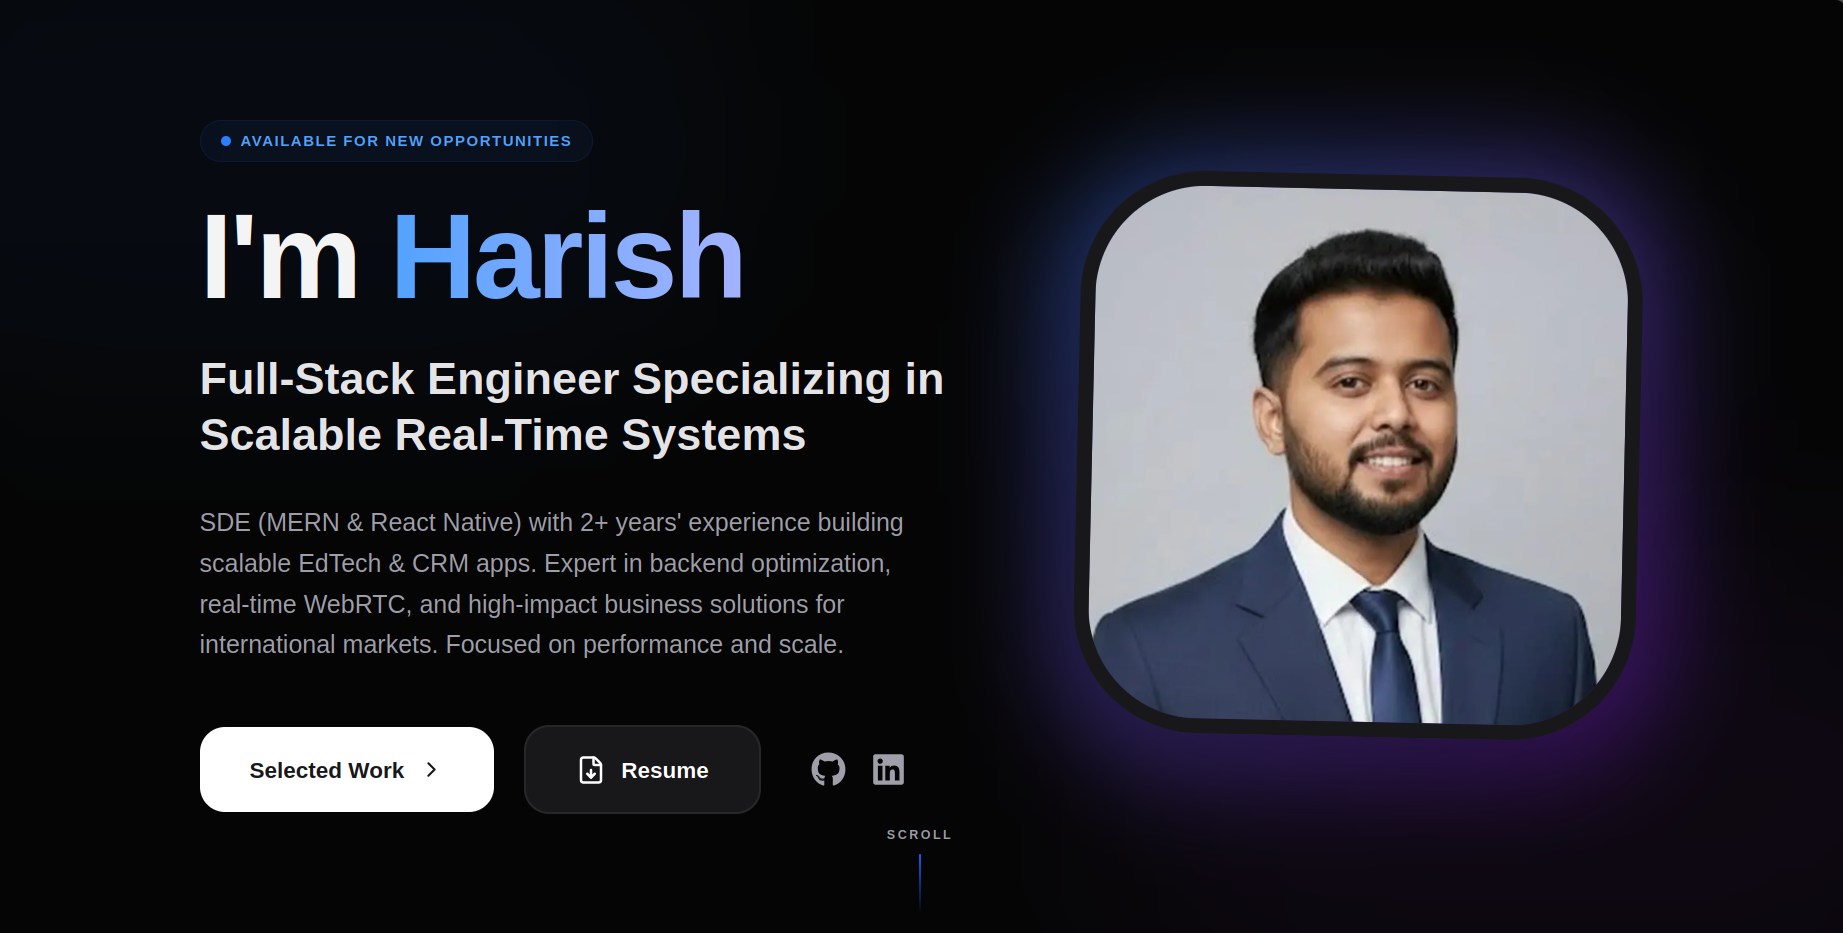
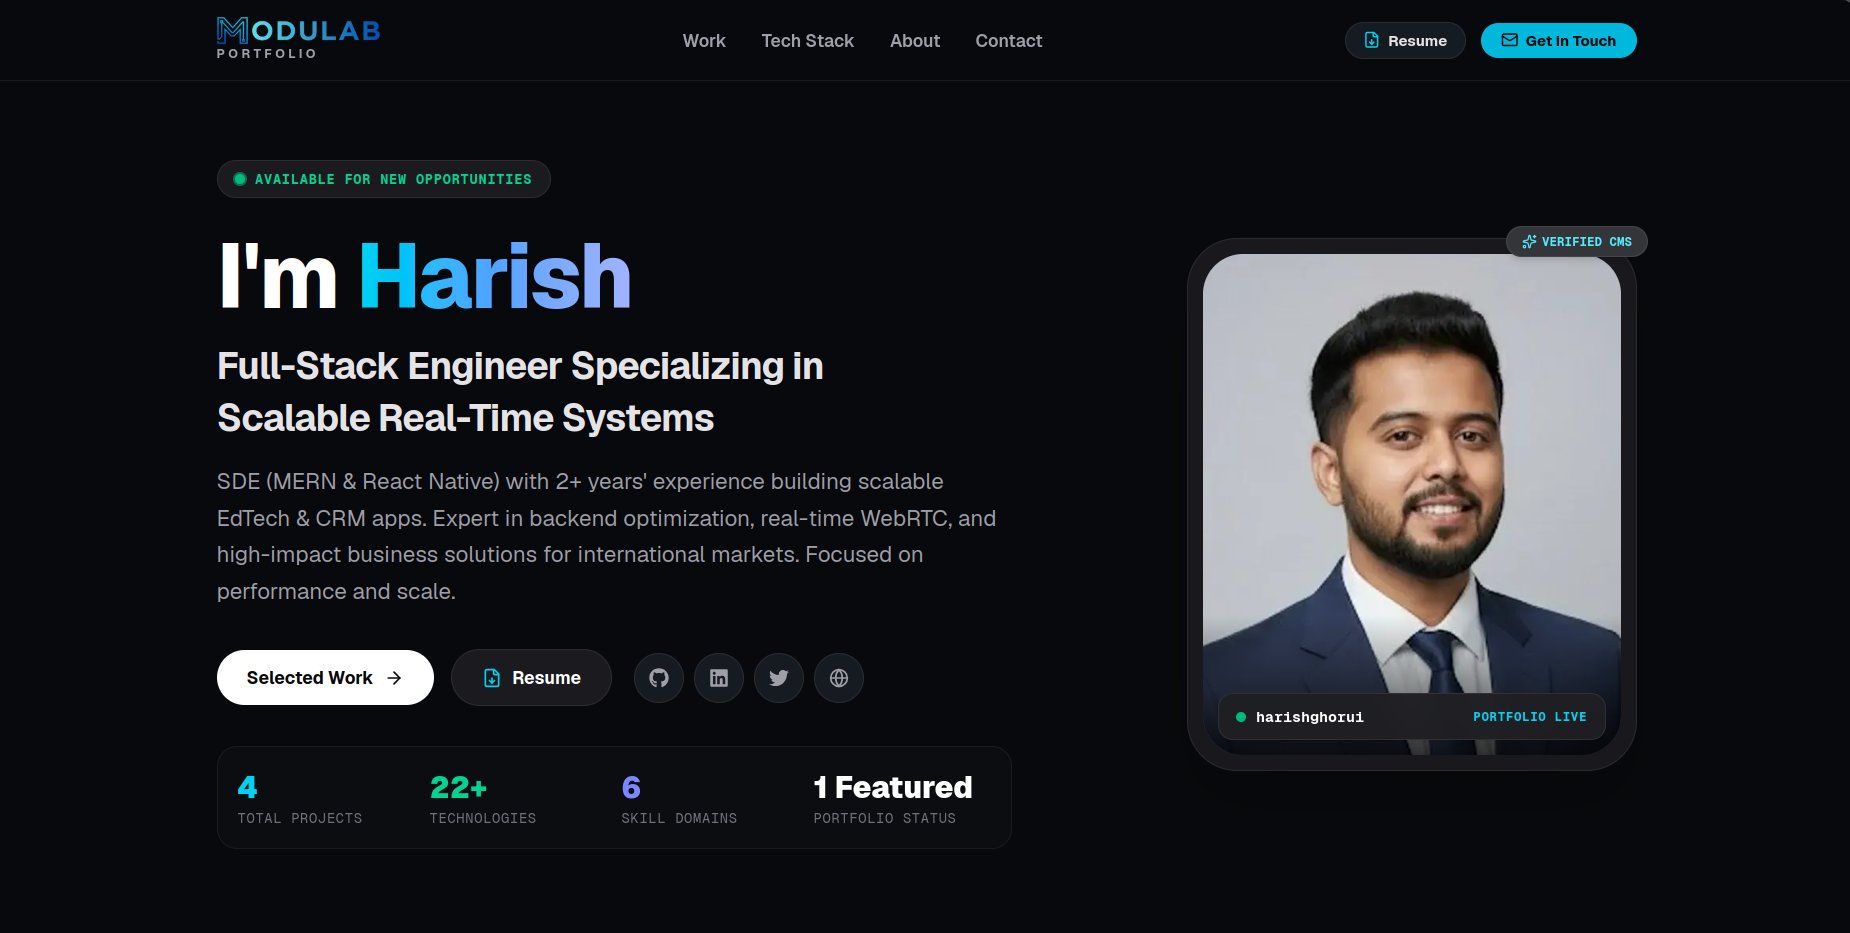
feat: improve landing page design and mobile responsiveness

diff --git a/src/app/page.tsx b/src/app/page.tsx
@@ -58,25 +58,25 @@ function BrowserMockupFrame({
     <div
       className={`rounded-2xl sm:rounded-3xl border border-zinc-200/90 dark:border-zinc-800 bg-white dark:bg-zinc-950 shadow-2xl shadow-zinc-900/10 dark:shadow-blue-500/5 overflow-hidden ring-1 ring-zinc-900/5 dark:ring-white/10 ${className}`}
     >
-      {/* Browser Window Header */}
-      <div className="h-10 sm:h-11 px-4 sm:px-5 flex items-center justify-between border-b border-zinc-200/80 dark:border-zinc-800 bg-zinc-50/90 dark:bg-zinc-900/80 select-none">
+      {/* Browser Window Header (Proportionally scaled on mobile, full desktop chrome preserved) */}
+      <div className="h-7 sm:h-11 px-2.5 sm:px-5 flex items-center justify-between border-b border-zinc-200/80 dark:border-zinc-800 bg-zinc-50/90 dark:bg-zinc-900/80 select-none gap-1.5 sm:gap-3">
         {/* Window Dots */}
-        <div className="flex items-center gap-2">
-          <div className="w-3 h-3 rounded-full bg-red-400/80 dark:bg-red-500/40 border border-red-500/30" />
-          <div className="w-3 h-3 rounded-full bg-amber-400/80 dark:bg-amber-500/40 border border-amber-500/30" />
-          <div className="w-3 h-3 rounded-full bg-green-400/80 dark:bg-green-500/40 border border-green-500/30" />
+        <div className="flex items-center gap-1 sm:gap-2 shrink-0">
+          <div className="w-1.5 h-1.5 sm:w-3 sm:h-3 rounded-full bg-red-400/80 dark:bg-red-500/40 border border-red-500/30" />
+          <div className="w-1.5 h-1.5 sm:w-3 sm:h-3 rounded-full bg-amber-400/80 dark:bg-amber-500/40 border border-amber-500/30" />
+          <div className="w-1.5 h-1.5 sm:w-3 sm:h-3 rounded-full bg-green-400/80 dark:bg-green-500/40 border border-green-500/30" />
         </div>
 
         {/* URL Pill */}
-        <div className="flex items-center gap-2 px-3 py-1 rounded-md bg-white dark:bg-zinc-800/80 text-[11px] sm:text-xs font-mono text-zinc-600 dark:text-zinc-400 max-w-[220px] sm:max-w-md truncate border border-zinc-200 dark:border-zinc-700/50 shadow-xs">
-          <Lock className="w-3 h-3 text-emerald-600 dark:text-emerald-400 flex-shrink-0" />
+        <div className="flex items-center gap-1 sm:gap-2 px-2 py-0.5 sm:px-3 sm:py-1 rounded-md bg-white dark:bg-zinc-800/80 text-[9px] sm:text-xs font-mono text-zinc-600 dark:text-zinc-400 min-w-0 max-w-[140px] sm:max-w-md truncate border border-zinc-200 dark:border-zinc-700/50 shadow-xs">
+          <Lock className="w-2 h-2 sm:w-3 sm:h-3 text-emerald-600 dark:text-emerald-400 shrink-0" />
           <span className="truncate">{url}</span>
         </div>
 
         {/* Status Pill */}
-        <div className="hidden sm:flex items-center gap-1.5 text-[11px] font-medium text-zinc-500 dark:text-zinc-400">
-          <span className="w-1.5 h-1.5 rounded-full bg-emerald-500 animate-pulse" />
-          <span>{statusText}</span>
+        <div className="flex items-center gap-1 sm:gap-1.5 text-[8.5px] sm:text-[11px] font-medium text-zinc-500 dark:text-zinc-400 shrink-0">
+          <span className="w-1 h-1 sm:w-1.5 sm:h-1.5 rounded-full bg-emerald-500 animate-pulse" />
+          <span className="truncate max-w-[70px] sm:max-w-none">{statusText}</span>
         </div>
       </div>
 
@@ -364,44 +364,44 @@ export default function PortfolioLandingPage() {
       {/* QUICK VALUE PROPOSITION BAR */}
       <section className="py-8 sm:py-10 border-y border-zinc-200/80 dark:border-zinc-800/80 bg-zinc-50/50 dark:bg-zinc-950/40">
         <div className="container max-w-6xl mx-auto px-4 sm:px-6">
-          <div className="grid grid-cols-2 lg:grid-cols-4 gap-6 sm:gap-8">
-            <div className="flex items-center gap-3">
-              <div className="p-2.5 rounded-xl bg-blue-100/70 dark:bg-blue-900/30 text-blue-600 dark:text-blue-400 flex-shrink-0">
+          <div className="grid grid-cols-1 sm:grid-cols-2 lg:grid-cols-4 gap-4 sm:gap-6 lg:gap-8">
+            <div className="flex items-center gap-3.5 min-w-0 p-3 sm:p-0 rounded-xl bg-white/50 dark:bg-zinc-900/30 sm:bg-transparent sm:dark:bg-transparent border border-zinc-200/50 dark:border-zinc-800/50 sm:border-0">
+              <div className="p-2.5 rounded-xl bg-blue-100/70 dark:bg-blue-900/30 text-blue-600 dark:text-blue-400 shrink-0">
                 <Globe className="w-5 h-5" />
               </div>
-              <div>
-                <p className="text-xs font-bold uppercase tracking-wider text-zinc-500">Personalized URL</p>
-                <p className="text-sm font-semibold text-zinc-900 dark:text-zinc-200">portfolio.modulab.online/[name]</p>
+              <div className="min-w-0 flex-1">
+                <p className="text-[11px] sm:text-xs font-bold uppercase tracking-wider text-zinc-500">Personalized URL</p>
+                <p className="text-sm font-semibold text-zinc-900 dark:text-zinc-200 truncate">portfolio.modulab.online/[name]</p>
               </div>
             </div>
 
-            <div className="flex items-center gap-3">
-              <div className="p-2.5 rounded-xl bg-indigo-100/70 dark:bg-indigo-900/30 text-indigo-600 dark:text-indigo-400 flex-shrink-0">
+            <div className="flex items-center gap-3.5 min-w-0 p-3 sm:p-0 rounded-xl bg-white/50 dark:bg-zinc-900/30 sm:bg-transparent sm:dark:bg-transparent border border-zinc-200/50 dark:border-zinc-800/50 sm:border-0">
+              <div className="p-2.5 rounded-xl bg-indigo-100/70 dark:bg-indigo-900/30 text-indigo-600 dark:text-indigo-400 shrink-0">
                 <Brain className="w-5 h-5" />
               </div>
-              <div>
-                <p className="text-xs font-bold uppercase tracking-wider text-zinc-500">Tech Stack Taxonomy</p>
-                <p className="text-sm font-semibold text-zinc-900 dark:text-zinc-200">100+ Official Devicons</p>
+              <div className="min-w-0 flex-1">
+                <p className="text-[11px] sm:text-xs font-bold uppercase tracking-wider text-zinc-500">Tech Stack Taxonomy</p>
+                <p className="text-sm font-semibold text-zinc-900 dark:text-zinc-200 truncate">100+ Official Devicons</p>
               </div>
             </div>
 
-            <div className="flex items-center gap-3">
-              <div className="p-2.5 rounded-xl bg-emerald-100/70 dark:bg-emerald-900/30 text-emerald-600 dark:text-emerald-400 flex-shrink-0">
+            <div className="flex items-center gap-3.5 min-w-0 p-3 sm:p-0 rounded-xl bg-white/50 dark:bg-zinc-900/30 sm:bg-transparent sm:dark:bg-transparent border border-zinc-200/50 dark:border-zinc-800/50 sm:border-0">
+              <div className="p-2.5 rounded-xl bg-emerald-100/70 dark:bg-emerald-900/30 text-emerald-600 dark:text-emerald-400 shrink-0">
                 <Cloud className="w-5 h-5" />
               </div>
-              <div>
-                <p className="text-xs font-bold uppercase tracking-wider text-zinc-500">Media Pipeline</p>
-                <p className="text-sm font-semibold text-zinc-900 dark:text-zinc-200">Cloudinary CDN & Resumes</p>
+              <div className="min-w-0 flex-1">
+                <p className="text-[11px] sm:text-xs font-bold uppercase tracking-wider text-zinc-500">Media Pipeline</p>
+                <p className="text-sm font-semibold text-zinc-900 dark:text-zinc-200 truncate">Cloudinary CDN & Resumes</p>
               </div>
             </div>
 
-            <div className="flex items-center gap-3">
-              <div className="p-2.5 rounded-xl bg-amber-100/70 dark:bg-amber-900/30 text-amber-600 dark:text-amber-400 flex-shrink-0">
+            <div className="flex items-center gap-3.5 min-w-0 p-3 sm:p-0 rounded-xl bg-white/50 dark:bg-zinc-900/30 sm:bg-transparent sm:dark:bg-transparent border border-zinc-200/50 dark:border-zinc-800/50 sm:border-0">
+              <div className="p-2.5 rounded-xl bg-amber-100/70 dark:bg-amber-900/30 text-amber-600 dark:text-amber-400 shrink-0">
                 <Cpu className="w-5 h-5" />
               </div>
-              <div>
-                <p className="text-xs font-bold uppercase tracking-wider text-zinc-500">Fast Edge Delivery</p>
-                <p className="text-sm font-semibold text-zinc-900 dark:text-zinc-200">Next.js 16 Server Engine</p>
+              <div className="min-w-0 flex-1">
+                <p className="text-[11px] sm:text-xs font-bold uppercase tracking-wider text-zinc-500">Fast Edge Delivery</p>
+                <p className="text-sm font-semibold text-zinc-900 dark:text-zinc-200 truncate">Next.js 16 Server Engine</p>
               </div>
             </div>
           </div>
@@ -718,41 +718,41 @@ export default function PortfolioLandingPage() {
             initial="initial"
             whileInView="whileInView"
             viewport={{ once: true }}
-            className="grid grid-cols-2 md:grid-cols-3 gap-6 sm:gap-8"
+            className="grid grid-cols-2 md:grid-cols-3 gap-3 sm:gap-6 md:gap-8"
           >
             {[
               {
-                icon: <Terminal className="w-6 h-6 text-blue-600 dark:text-blue-400" />,
+                icon: <Terminal className="w-4.5 h-4.5 sm:w-6 sm:h-6 text-blue-600 dark:text-blue-400" />,
                 title: 'Next.js 16',
                 badge: 'Framework',
                 desc: 'App Router, Turbopack, and React 19 Server Components for instant rendering.',
               },
               {
-                icon: <Database className="w-6 h-6 text-emerald-600 dark:text-emerald-400" />,
+                icon: <Database className="w-4.5 h-4.5 sm:w-6 sm:h-6 text-emerald-600 dark:text-emerald-400" />,
                 title: 'MongoDB & Mongoose',
                 badge: 'Database',
                 desc: 'Strict Single-Writer domain architecture with encapsulated models and TTL caching.',
               },
               {
-                icon: <ShieldCheck className="w-6 h-6 text-indigo-600 dark:text-indigo-400" />,
+                icon: <ShieldCheck className="w-4.5 h-4.5 sm:w-6 sm:h-6 text-indigo-600 dark:text-indigo-400" />,
                 title: 'NextAuth.js v5',
                 badge: 'Security',
                 desc: 'JWT session tokens with bcrypt encryption (12 salt rounds) and proxy-level protection.',
               },
               {
-                icon: <Cloud className="w-6 h-6 text-sky-600 dark:text-sky-400" />,
+                icon: <Cloud className="w-4.5 h-4.5 sm:w-6 sm:h-6 text-sky-600 dark:text-sky-400" />,
                 title: 'Cloudinary CDN',
                 badge: 'Media Pipeline',
                 desc: 'Direct client-side uploads, automatic image optimization, and signed resume streams.',
               },
               {
-                icon: <Layers className="w-6 h-6 text-purple-600 dark:text-purple-400" />,
+                icon: <Layers className="w-4.5 h-4.5 sm:w-6 sm:h-6 text-purple-600 dark:text-purple-400" />,
                 title: 'Tailwind CSS v4',
                 badge: 'Design System',
                 desc: 'Automatic device light/dark mode adaptation with zero layout shifts or theme flicker.',
               },
               {
-                icon: <Cpu className="w-6 h-6 text-amber-600 dark:text-amber-400" />,
+                icon: <Cpu className="w-4.5 h-4.5 sm:w-6 sm:h-6 text-amber-600 dark:text-amber-400" />,
                 title: 'Devicon Ecosystem',
                 badge: 'Iconography',
                 desc: 'CDN-powered developer vector icons for accurate technology stack visualization.',
@@ -761,20 +761,22 @@ export default function PortfolioLandingPage() {
               <motion.div
                 key={i}
                 variants={fadeInUp}
-                className="p-6 sm:p-7 rounded-2xl bg-white dark:bg-zinc-900 border border-zinc-200 dark:border-zinc-800 hover:border-zinc-300 dark:hover:border-zinc-700 transition-all shadow-xs"
+                className="p-3.5 sm:p-6 md:p-7 rounded-2xl bg-white dark:bg-zinc-900 border border-zinc-200 dark:border-zinc-800 hover:border-zinc-300 dark:hover:border-zinc-700 transition-all shadow-xs flex flex-col justify-between"
               >
-                <div className="flex items-center justify-between mb-4">
-                  <div className="p-2.5 rounded-xl bg-zinc-50 dark:bg-zinc-800 border border-zinc-200/60 dark:border-zinc-700/60">
-                    {tech.icon}
+                <div>
+                  <div className="flex items-start sm:items-center justify-between gap-1.5 sm:gap-2 mb-2.5 sm:mb-4">
+                    <div className="p-1.5 sm:p-2.5 rounded-lg sm:rounded-xl bg-zinc-50 dark:bg-zinc-800 border border-zinc-200/60 dark:border-zinc-700/60 shrink-0">
+                      {tech.icon}
+                    </div>
+                    <span className="text-[9px] sm:text-[10px] font-mono font-semibold uppercase px-1.5 sm:px-2 py-0.5 rounded sm:rounded-md bg-zinc-100 dark:bg-zinc-800 text-zinc-500 dark:text-zinc-400 text-right leading-tight break-words">
+                      {tech.badge}
+                    </span>
                   </div>
-                  <span className="text-[10px] font-mono font-semibold uppercase px-2 py-0.5 rounded-md bg-zinc-100 dark:bg-zinc-800 text-zinc-500">
-                    {tech.badge}
-                  </span>
+                  <h3 className="text-[13px] sm:text-base md:text-lg font-bold text-zinc-900 dark:text-white mb-1.5 sm:mb-2 leading-snug sm:leading-normal">
+                    {tech.title}
+                  </h3>
                 </div>
-                <h3 className="text-base sm:text-lg font-bold text-zinc-900 dark:text-white mb-2">
-                  {tech.title}
-                </h3>
-                <p className="text-xs sm:text-sm text-zinc-600 dark:text-zinc-400 leading-relaxed">
+                <p className="text-[11px] sm:text-xs md:text-sm text-zinc-600 dark:text-zinc-400 leading-relaxed sm:leading-relaxed">
                   {tech.desc}
                 </p>
               </motion.div>
